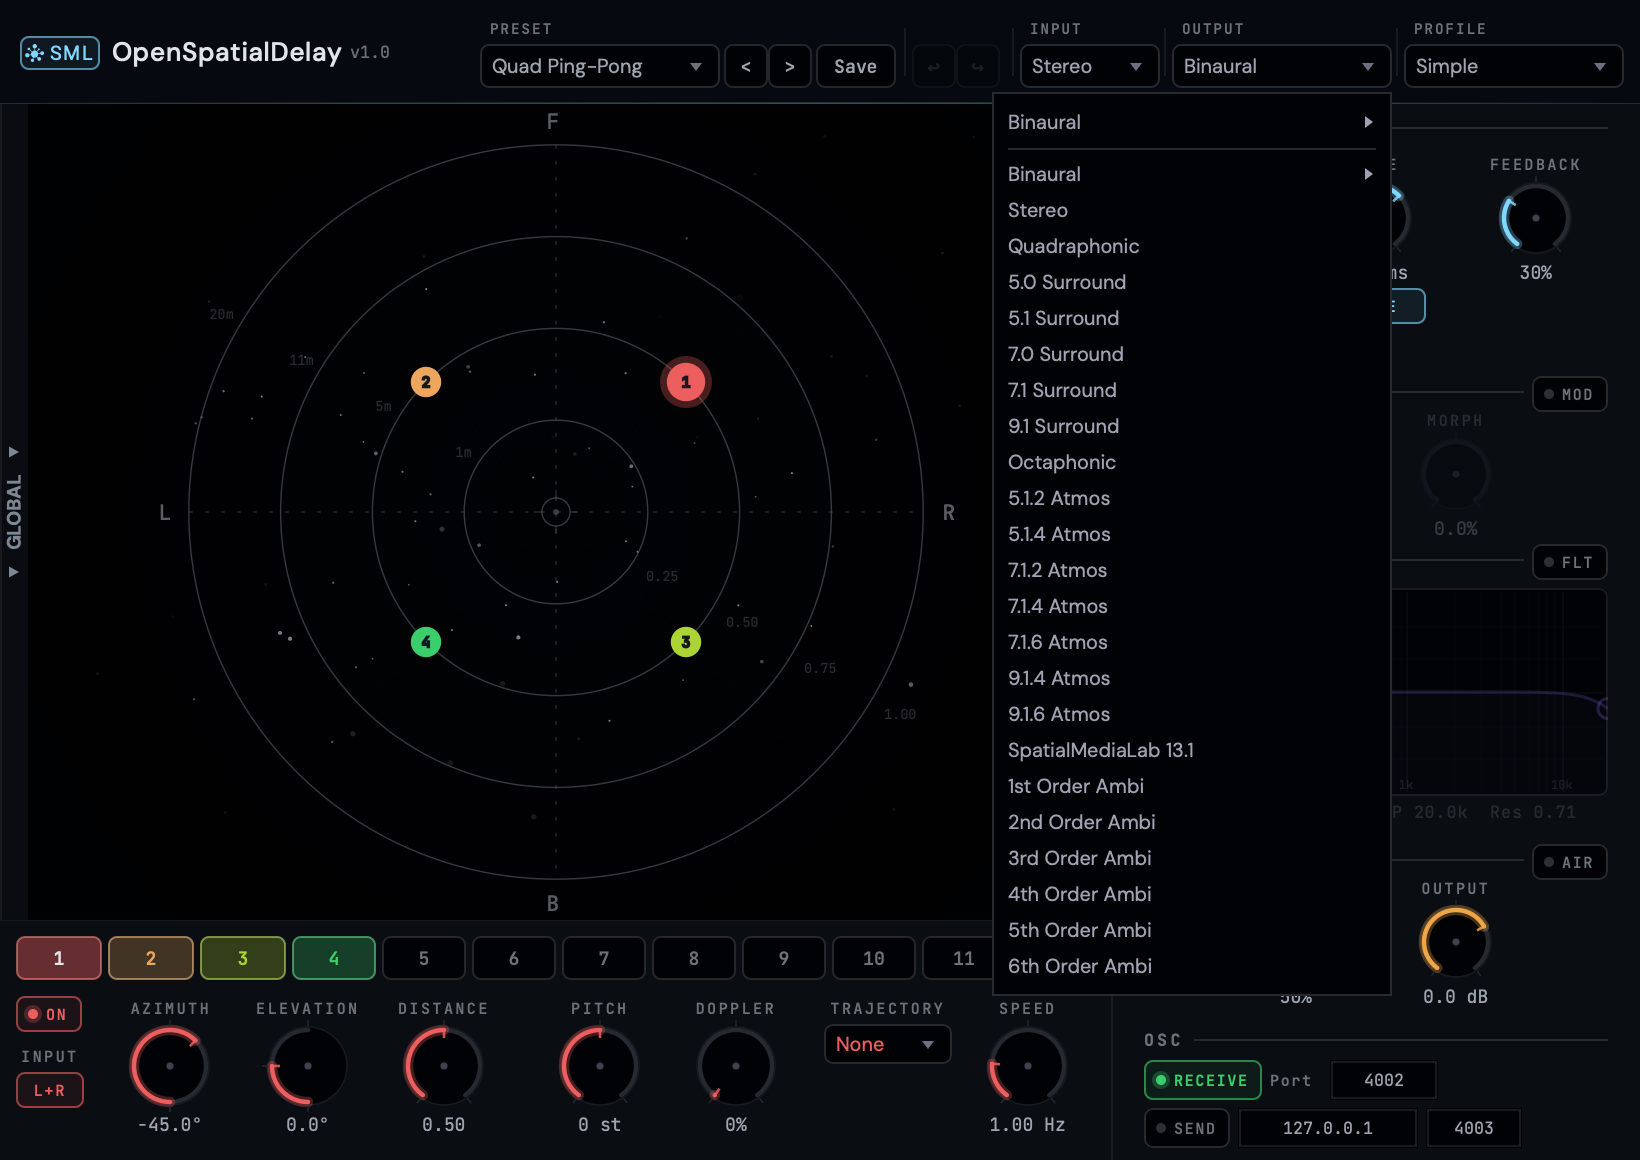
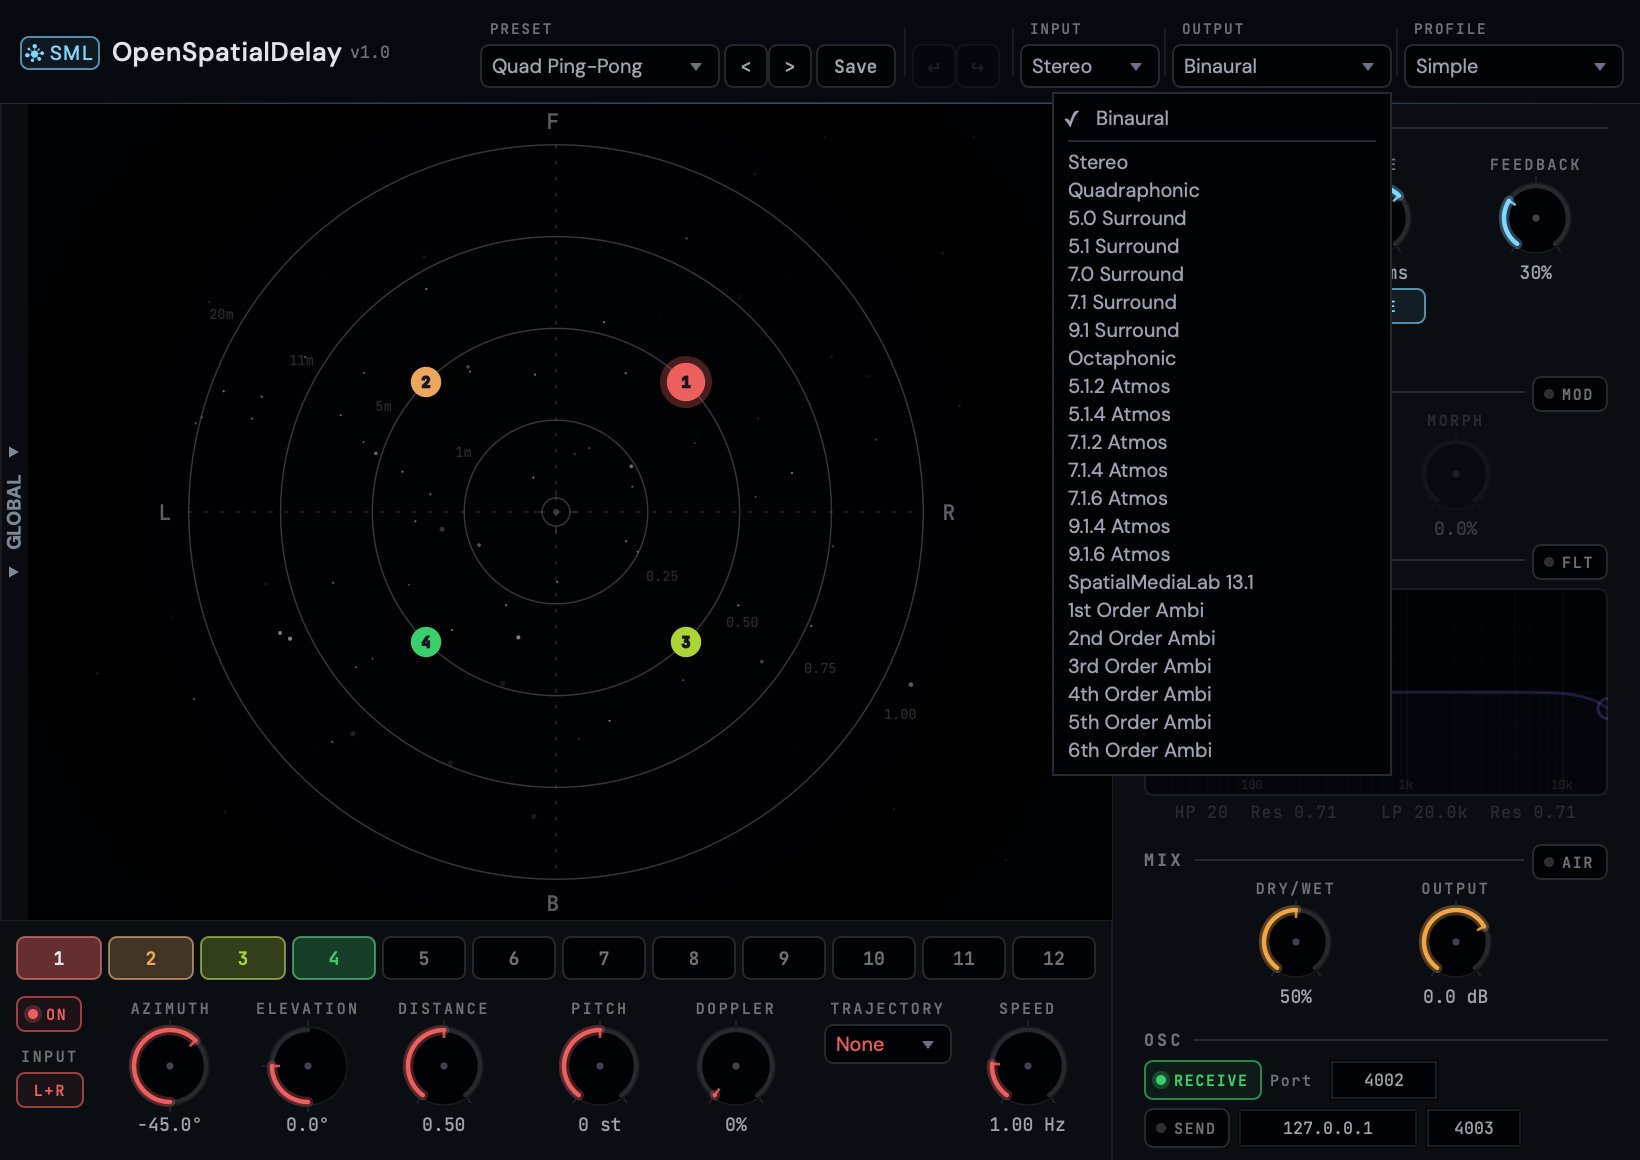
fix(screenshots-r3): item 10 — output-menu popup matches real JUCE ComboBox
Three fixes to make screenshot_output_menu.png match the real plugin popup
(round-3 reference: .context/attachments/Screenshot 2026-04-17 at 15.50.02-v1.png):

1. PopupMenuSnapshot::paint() was passing isTicked/hasSubMenu swapped to
   OSDLookAndFeel::drawPopupMenuItem. The base LookAndFeel_V4 signature is
   (isTicked, hasSubMenu); we were passing (hasSubMenu, isTicked). Result:
   tick on selected item never rendered. Fixed the argument order.

2. buildOutputDropdownMock was duplicating the currently-selected item in
   the list below the separator. Real JUCE popup shows the selected item
   ONCE at the top (ticked) then the REMAINING items — no duplicate. Skip
   the selected index in the loop and drop the tick on list items.

3. Tighten popup visual density: minWidth 200→170, row height 18→14. Popup
   now ends around 75–78% down the editor rather than extending near the
   bottom edge.

Issue #168 round 3, item 10 of the remaining list (10/11/12/16/17).

Changed region(s): [[0.5909, 0.0931, 0.8085, 0.869], [0.7463, 0.7448, 0.8085, 0.869]]

diff --git a/tools/screenshot_tool.cpp b/tools/screenshot_tool.cpp
@@ -199,8 +199,8 @@ public:
                                         it.isSeparator,
                                         /*isActive*/ true,
                                         it.isHighlighted,
-                                        it.hasSubMenu,
                                         it.isTicked,
+                                        it.hasSubMenu,
                                         it.text,
                                         /*shortcut*/ juce::String(),
                                         /*icon*/ nullptr,
@@ -339,9 +339,10 @@ buildPresetMenuMock (OSDLookAndFeel& lnf,
 
 //==============================================================================
 // Build an output-format dropdown mock that matches the real plugin's popup
-// (issue #168 round 2): juce::ComboBox duplicates the currently-selected item
-// at the top of the popup, followed by a separator, then the full flat list
-// below (with the current item ticked in both positions).
+// (issue #168 rounds 2 + 3): juce::ComboBox shows the currently-selected item
+// at the top of the popup (ticked), followed by a separator, followed by the
+// remaining items in their natural order. The selected item is NOT duplicated
+// in the list below — matching the reference attachment in round 3.
 //==============================================================================
 static std::unique_ptr<PopupMenuSnapshot>
 buildOutputDropdownMock (OSDLookAndFeel& lnf,
@@ -351,7 +352,7 @@ buildOutputDropdownMock (OSDLookAndFeel& lnf,
     std::vector<PopupMenuSnapshot::Item> items;
     int currentFmt = processor.configOutputFormat.load();
 
-    // 1. Current item repeated at the top of the popup (ticked).
+    // 1. Currently-selected item at the top, ticked.
     if (currentFmt >= 0 && currentFmt < OpenSpatialDelayProcessor::NUM_OUTPUT_FORMATS)
     {
         const auto& cur = OpenSpatialDelayProcessor::outputFormatRegistry[(size_t) currentFmt];
@@ -365,19 +366,20 @@ buildOutputDropdownMock (OSDLookAndFeel& lnf,
         items.push_back (sep);
     }
 
-    // 2. Full flat list — current item ticked again so both occurrences match.
+    // 2. Remaining items — skip the selected one, no ticks on any of them.
     for (int i = 0; i < OpenSpatialDelayProcessor::NUM_OUTPUT_FORMATS; ++i)
     {
+        if (i == currentFmt) continue;
         const auto& info = OpenSpatialDelayProcessor::outputFormatRegistry[(size_t) i];
         PopupMenuSnapshot::Item it;
-        it.text    = info.name;
-        it.isTicked = (i == currentFmt);
+        it.text = info.name;
         items.push_back (it);
     }
 
-    // Compact row height so the duplicated current item + separator + 23 formats
-    // still fit within the editor height.
-    return std::make_unique<PopupMenuSnapshot> (lnf, std::move (items), minWidth, /*row h*/ 18);
+    // Compact row height so the header + separator + 22 remaining formats
+    // still fit within the editor height — matches the real popup's visual
+    // density in the issue #168 round-3 reference.
+    return std::make_unique<PopupMenuSnapshot> (lnf, std::move (items), minWidth, /*row h*/ 14);
 }
 
 //==============================================================================
@@ -776,7 +778,7 @@ int main (int argc, char* argv[])
     else if (mode == "output-dropdown")
     {
         auto base = snapshotComponent (*osd, scaleFactor);
-        auto mock = buildOutputDropdownMock (osd->getOSDLookAndFeel(), processor, 200);
+        auto mock = buildOutputDropdownMock (osd->getOSDLookAndFeel(), processor, 170);
         auto mockImg = snapshotComponent (*mock, scaleFactor);
 
         // Anchor horizontally near the Output Format button, but shift left so the
